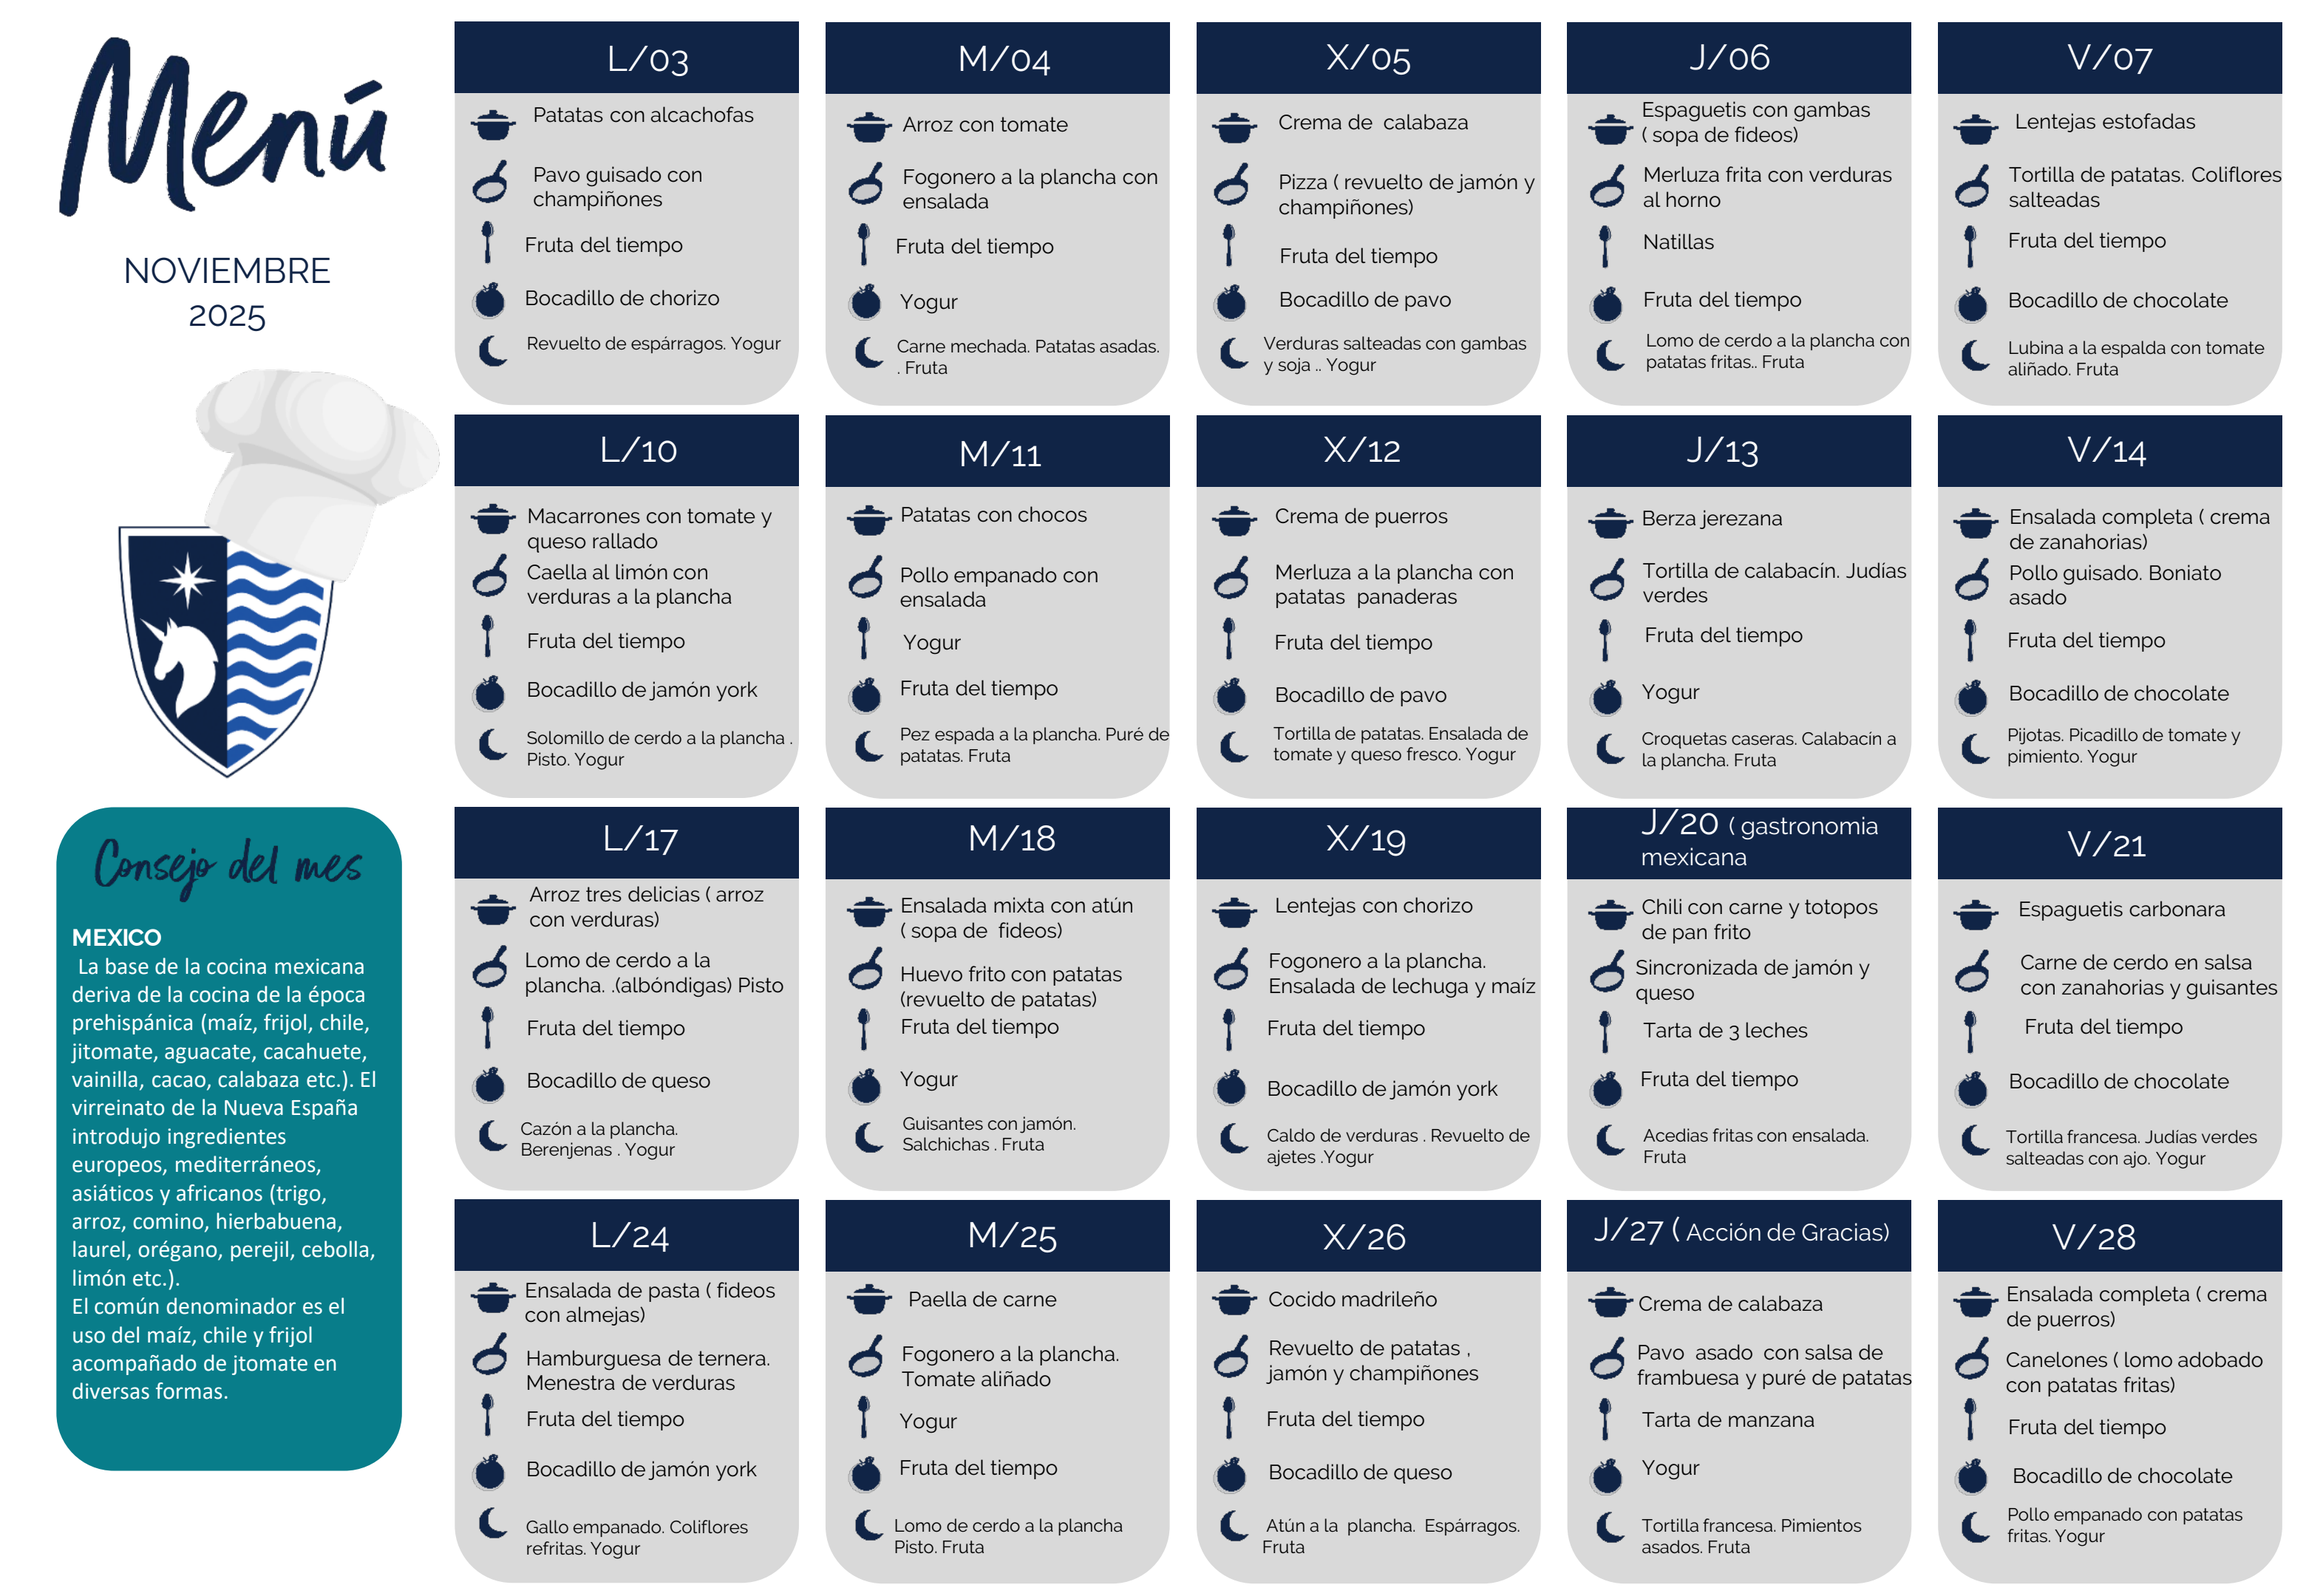
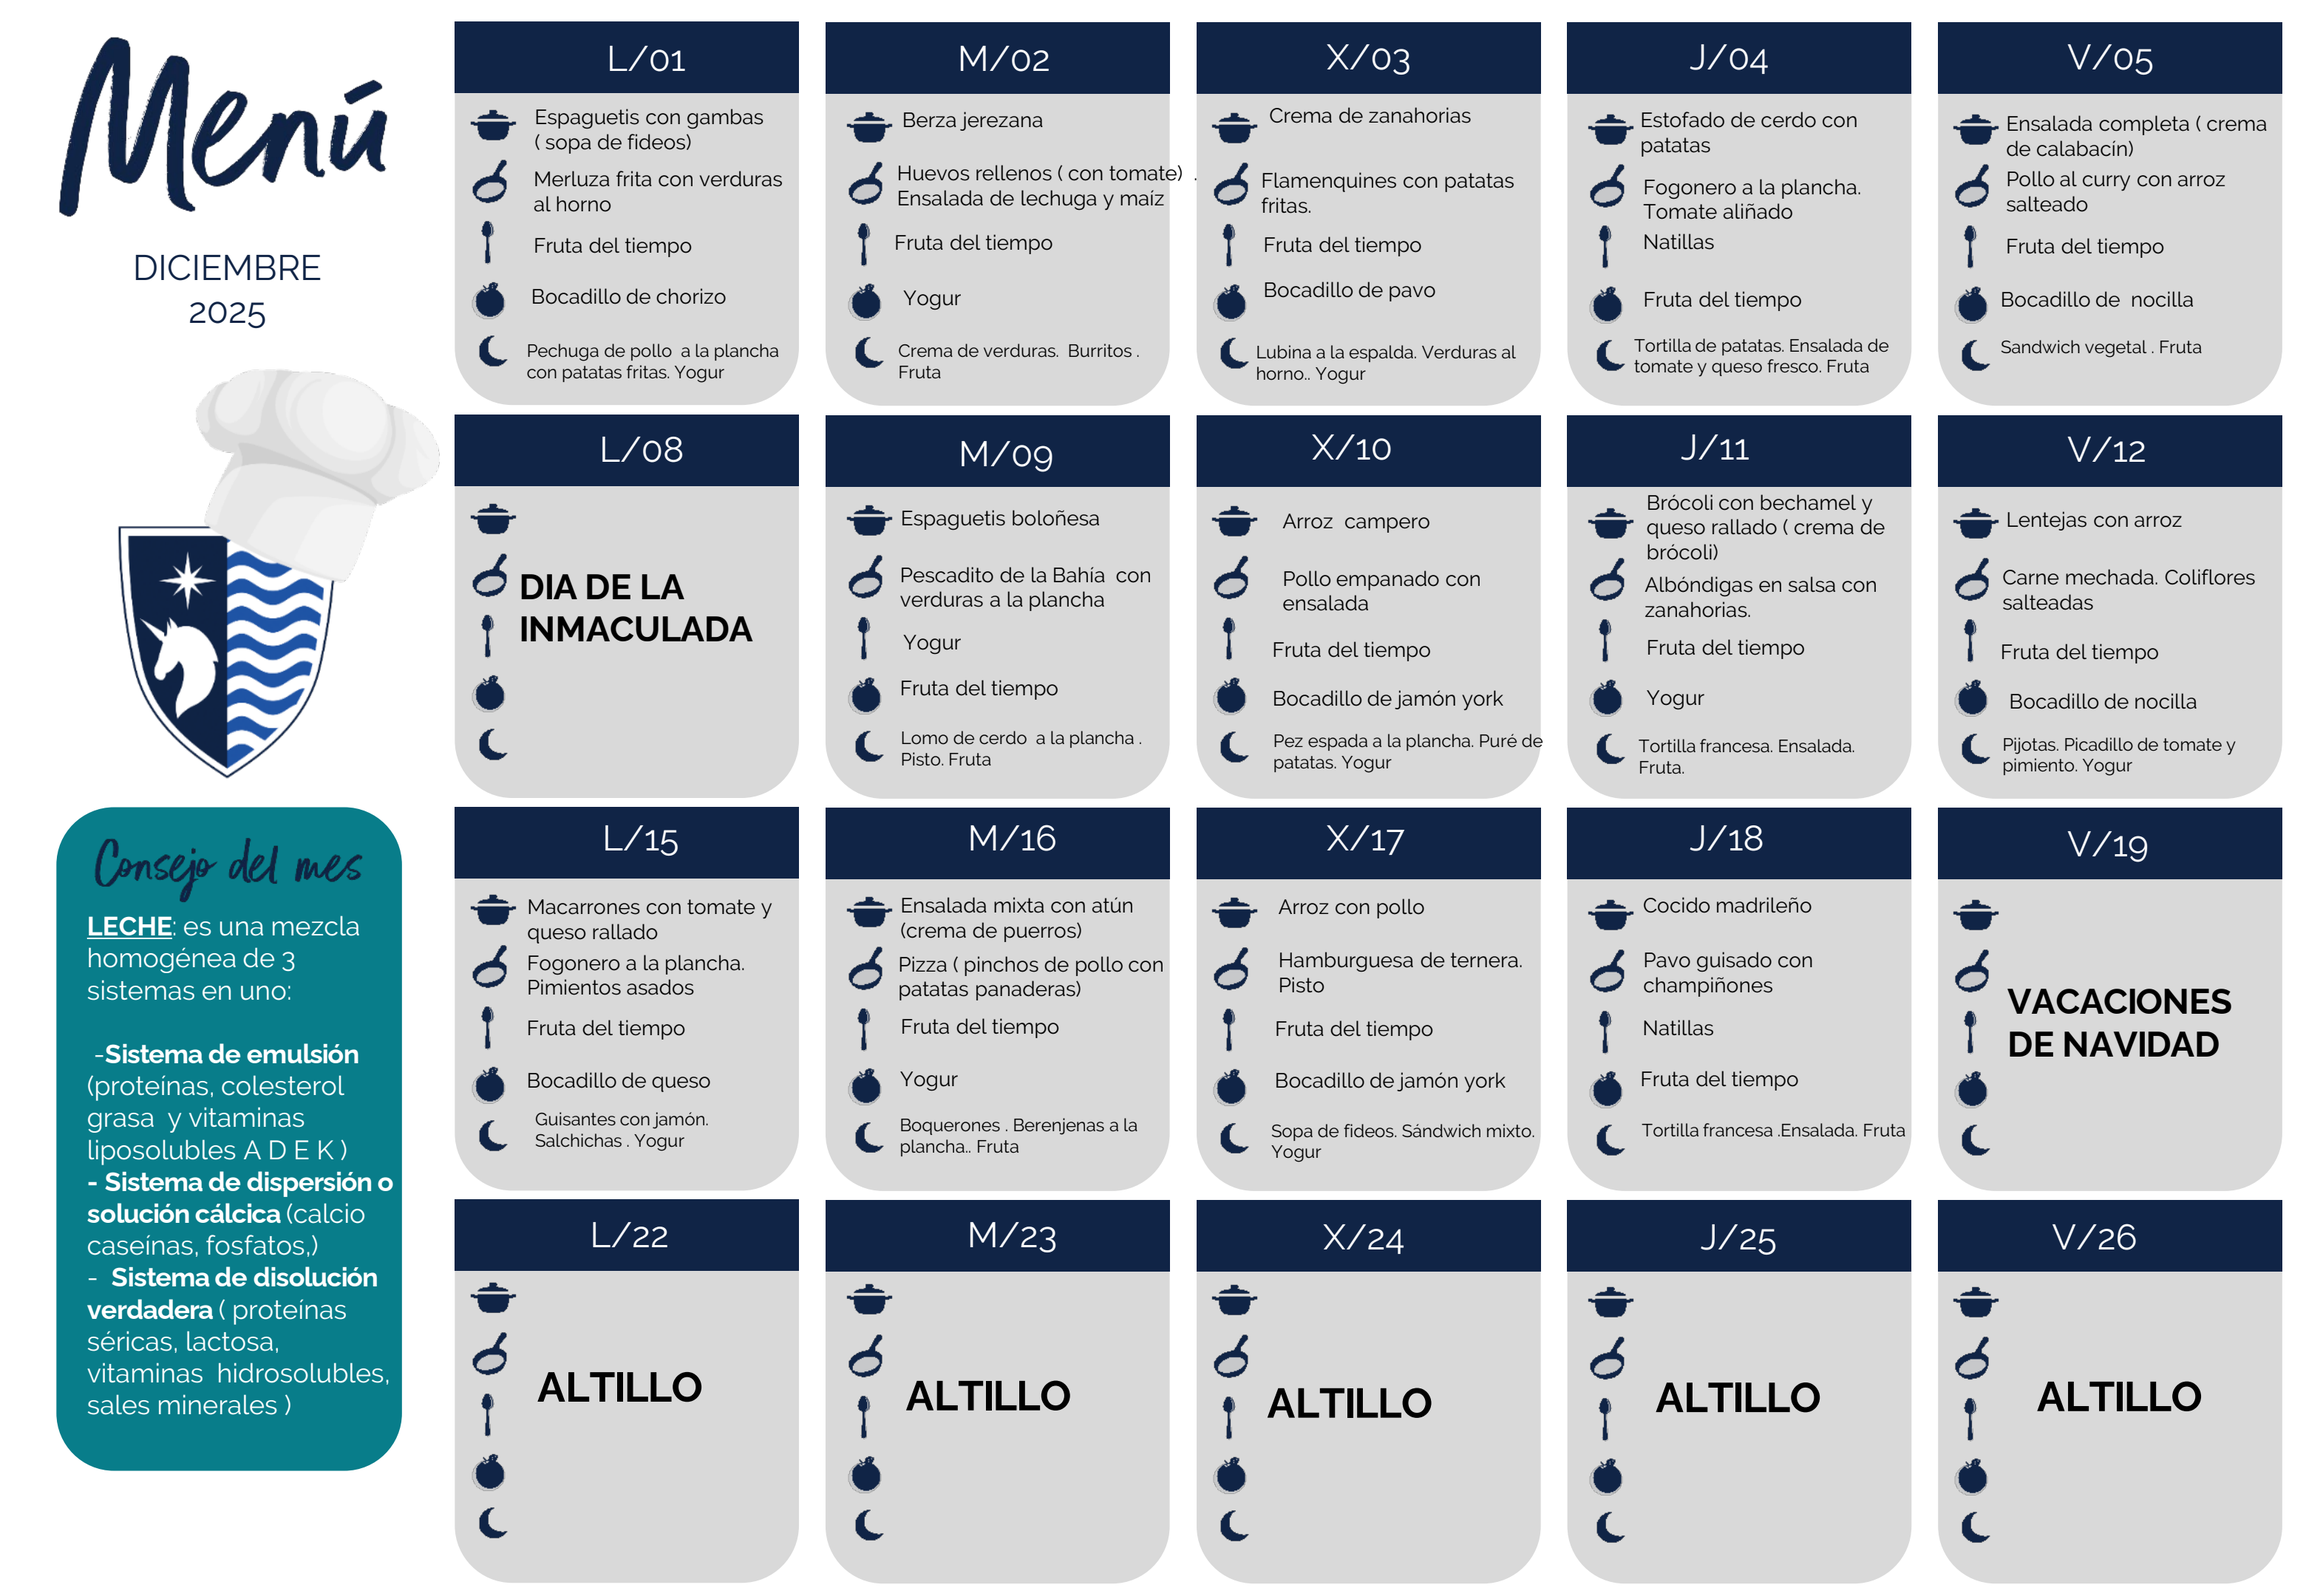
updatemenu

diff --git a/pages/menu.html b/pages/menu.html
@@ -35,37 +35,32 @@
 <center>
   <pre style="font-size: 200%;color: #ffffff;font-family: Verdana;font-weight:bold;", id="todaydata">Algo ha fallado</pre>
   <img src="../images/menu.png" width="90%" style="border: solid 15px #aeaeae; border-radius: 10px;">
-  <br>
-  <a href="http://10.71.36.212:1234">???</a>
-  <br>
-  <br>
-    <a href="../images/image.png">???</a>
 </center>
 <script>
 const menu = {
-  "Lunes 3 Nov": ["Patatas con alcachofas", "Pavo guisado con champiñones", "Fruta del tiempo"],
-  "Martes 4 Nov": ["Arroz con tomate", "Fogonero a la plancha con ensalada", "Fruta del tiempo"],
-  "Miércoles 5 Nov": ["Crema de calabaza", "Pizza (revuelto de jamón y champiñones)", "Fruta del tiempo"],
-  "Jueves 6 Nov": ["Espaguetis con gambas (sopa de fideos)", "Merluza frita con verduras al horno", "Natillas"],
-  "Viernes 7 Nov": ["Lentejas estofadas", "Tortilla de patatas. Coliflores salteadas", "Fruta del tiempo"],
+  "Lunes 1 Dic": ["Espaguetis con gambas (sopa de fideos)", "Merluza frita con verduras al horno", "Fruta del tiempo"],
+  "Martes 2 Dic": ["Berza jerezana", "Huevos rellenos (con tomate). Ensalada de lechuga y maíz", "Fruta del tiempo"],
+  "Miércoles 3 Dic": ["Crema de zanahorias", "Flamenquines con patatas fritas", "Fruta del tiempo"],
+  "Jueves 4 Dic": ["Estofado de cerdo con patatas", "Fogonero a la plancha. Tomate aliñado", "Natillas"],
+  "Viernes 5 Dic": ["Ensalada completa (crema de calabacín)", "Pollo al curry con arroz salteado", "Fruta del tiempo"],
 
-  "Lunes 10 Nov": ["Macarrones con tomate y queso rallado", "Caella al limón con verduras a la plancha", "Fruta del tiempo"],
-  "Martes 11 Nov": ["Patatas con chocos", "Pollo empanado con ensalada", "Yogur"],
-  "Miércoles 12 Nov": ["Crema de puerros", "Merluza a la plancha con patatas panaderas", "Fruta del tiempo"],
-  "Jueves 13 Nov": ["Berza jerezana", "Tortilla de calabacín. Judías verdes", "Fruta del tiempo"],
-  "Viernes 14 Nov": ["Ensalada completa (crema de zanahorias)", "Pollo guisado. Boniato asado", "Fruta del tiempo"],
+  "Lunes 8 Dic": ["DÍA DE LA INMACULADA", "", ""],
+  "Martes 9 Dic": ["Espaguetis boloñesa", "Pescadito de la Bahía con verduras a la plancha", "Yogur"],
+  "Miércoles 10 Dic": ["Arroz campero", "Pollo empanado con ensalada", "Fruta del tiempo"],
+  "Jueves 11 Dic": ["Brócoli con bechamel y queso rallado (crema de brócoli)", "Albóndigas en salsa con zanahorias", "Fruta del tiempo"],
+  "Viernes 12 Dic": ["Lentejas con arroz", "Carne mechada. Coliflores salteadas", "Fruta del tiempo"],
 
-  "Lunes 17 Nov": ["Arroz tres delicias (arroz con verduras)", "Lomo de cerdo a la plancha (albóndigas). Pisto", "Fruta del tiempo"],
-  "Martes 18 Nov": ["Ensalada mixta con atún (sopa de fideos)", "Huevo frito con patatas (revuelto de patatas)", "Fruta del tiempo"],
-  "Miércoles 19 Nov": ["Lentejas con chorizo", "Fogonero a la plancha. Ensalada de lechuga y maíz", "Fruta del tiempo"],
-  "Jueves 20 Nov": ["Chili con carne y totopos de pan frito", "Sincronizada de jamón y queso", "Tarta de 3 leches"],
-  "Viernes 21 Nov": ["Espaguetis carbonara", "Carne de cerdo en salsa con zanahorias y guisantes", "Fruta del tiempo"],
+  "Lunes 15 Dic": ["Macarrones con tomate y queso rallado", "Fogonero a la plancha. Pimientos asados", "Fruta del tiempo"],
+  "Martes 16 Dic": ["Ensalada mixta con atún (crema de puerros)", "Pizza (pinchos de pollo con patatas panaderas)", "Fruta del tiempo"],
+  "Miércoles 17 Dic": ["Arroz con pollo", "Hamburguesa de ternera. Pisto", "Fruta del tiempo"],
+  "Jueves 18 Dic": ["Cocido madrileño", "Pavo guisado con champiñones", "Natillas"],
+  "Viernes 19 Dic": ["VACACIONES DE NAVIDAD", "", ""],
 
-  "Lunes 24 Nov": ["Ensalada de pasta (fideos con almejas)", "Hamburguesa de ternera. Menestra de verduras", "Fruta del tiempo"],
-  "Martes 25 Nov": ["Paella de carne", "Fogonero a la plancha. Tomate aliñado", "Yogur"],
-  "Miércoles 26 Nov": ["Cocido madrileño", "Revuelto de patatas, jamón y champiñones", "Fruta del tiempo"],
-  "Jueves 27 Nov": ["Crema de calabaza", "Pavo asado con salsa de frambuesas y puré de patatas", "Tarta de manzana"],
-  "Viernes 28 Nov": ["Ensalada completa (crema de puerros)", "Canelones (lomo adobado con patatas fritas)", "Fruta del tiempo"]
+  "Lunes 22 Dic": ["ALTILLO", "", ""],
+  "Martes 23 Dic": ["ALTILLO", "", ""],
+  "Miércoles 24 Dic": ["ALTILLO", "", ""],
+  "Jueves 25 Dic": ["ALTILLO", "", ""],
+  "Viernes 26 Dic": ["ALTILLO", "", ""]
 };
   function getFormattedDate() {
     const daysOfWeek = ["Domingo", "Lunes", "Martes", "Miércoles", "Jueves", "Viernes", "Sábado"];
